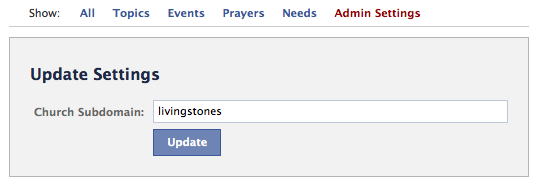
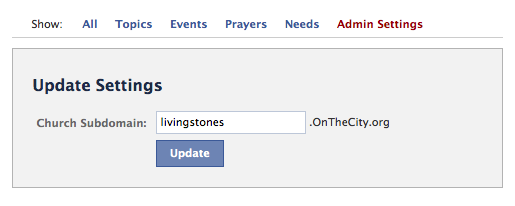
boom

Changed region(s): [[0.0, 0.0272, 0.9942, 0.9783]]

diff --git a/thecity-plugins/facebook/index.html b/thecity-plugins/facebook/index.html
@@ -46,8 +46,15 @@
 <p><img src="/images/plaza-facebook/widget.png" alt="Screenshot"></p>
 
 <ul>
-<li>Church Subdomain<br>
-The part of the URL before the “OnTheCity.org”.  For example in the URL http://livingstones.onthecity.org the subdomain would be “livingstones”.</li>
+<li>
+    <p>Church Subdomain<br>
+The part of the URL before the “OnTheCity.org”.  For example in the URL http://livingstones.onthecity.org the subdomain would be “livingstones”.</p>
+  </li>
+  <li>
+    <p>Group Nickname (optional)<br>
+The group nickname to pull Plaza items for.<br>
+http://helpdesk.onthecity.org/entries/422776-group-nickname</p>
+  </li>
 </ul><h2 id="bug--feature-request">Bug / Feature Request</h2>
 
 <p>If you would like to get involved in this project then visit the project GitHub repo and fork the project.<br><a href="https://github.com/thecity/thecity-plaza-facebook">https://github.com/thecity/thecity-plaza-facebook</a> </p>
